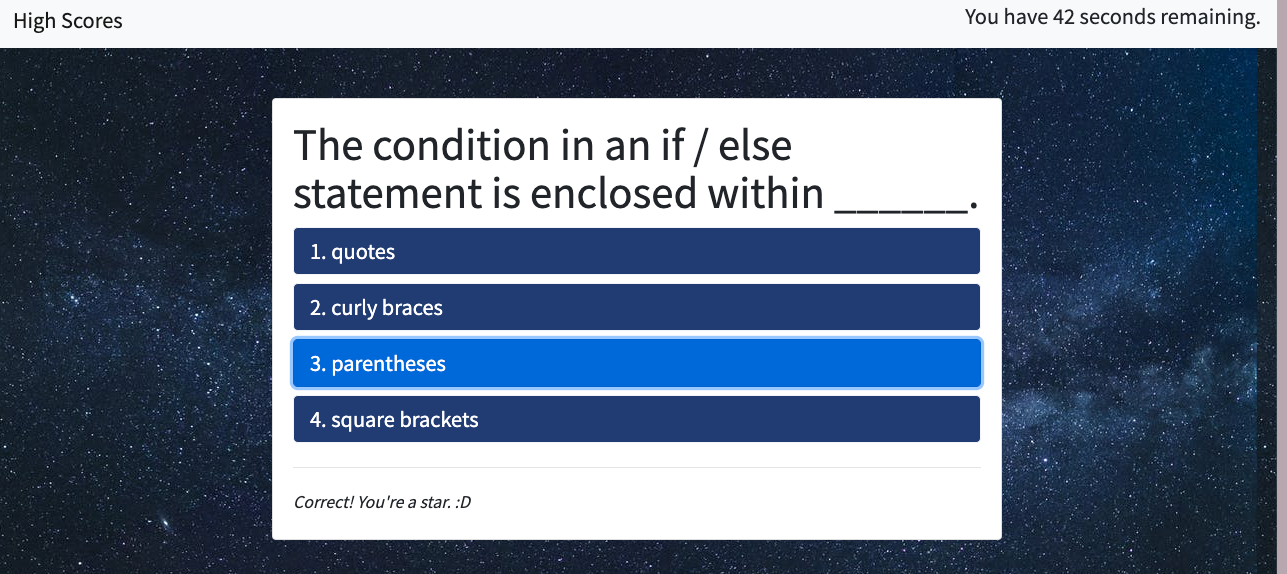
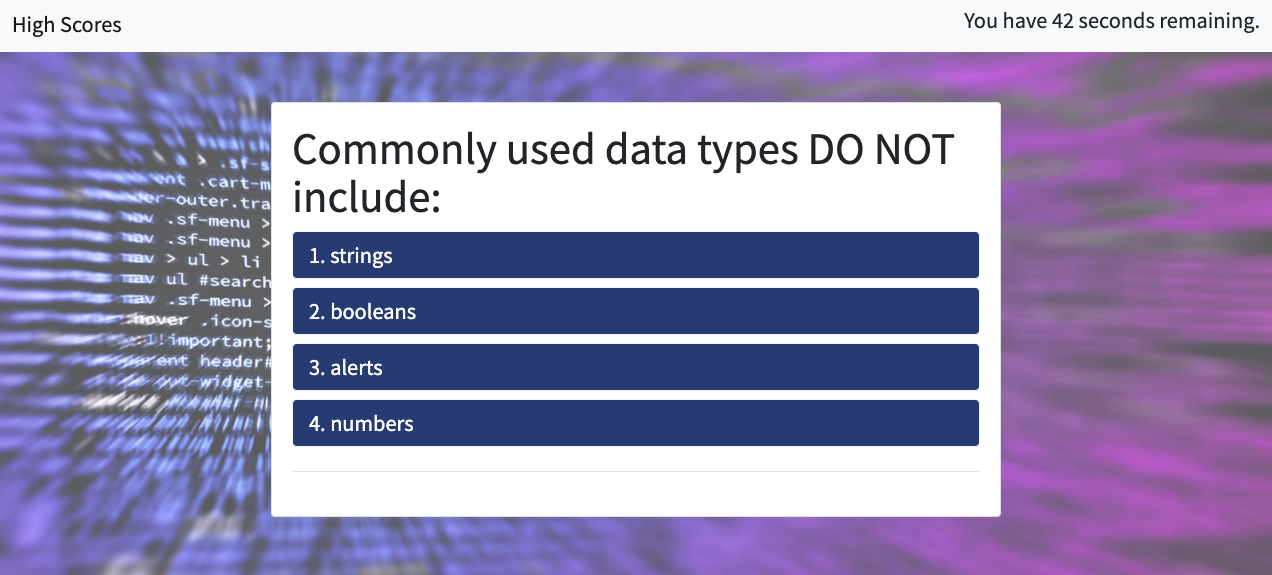
added new screenshots with new background

diff --git a/style.css b/style.css
@@ -1,6 +1,18 @@
 body {
-  background-image: url(https://images.pexels.com/photos/956999/milky-way-starry-sky-night-sky-star-956999.jpeg?auto=compress&cs=tinysrgb&h=750&w=1260);
   font-family: "Noto Sans JP", sans-serif;
+}
+
+body::after {
+  content: "";
+  background-image: url(pexels-negative-space-97077.jpg);
+  background-size: cover;
+  opacity: 0.65;
+  top: 0;
+  left: 0;
+  bottom: 0;
+  right: 0;
+  position: absolute;
+  z-index: -1;   
 }
 
 .btn-primary {
